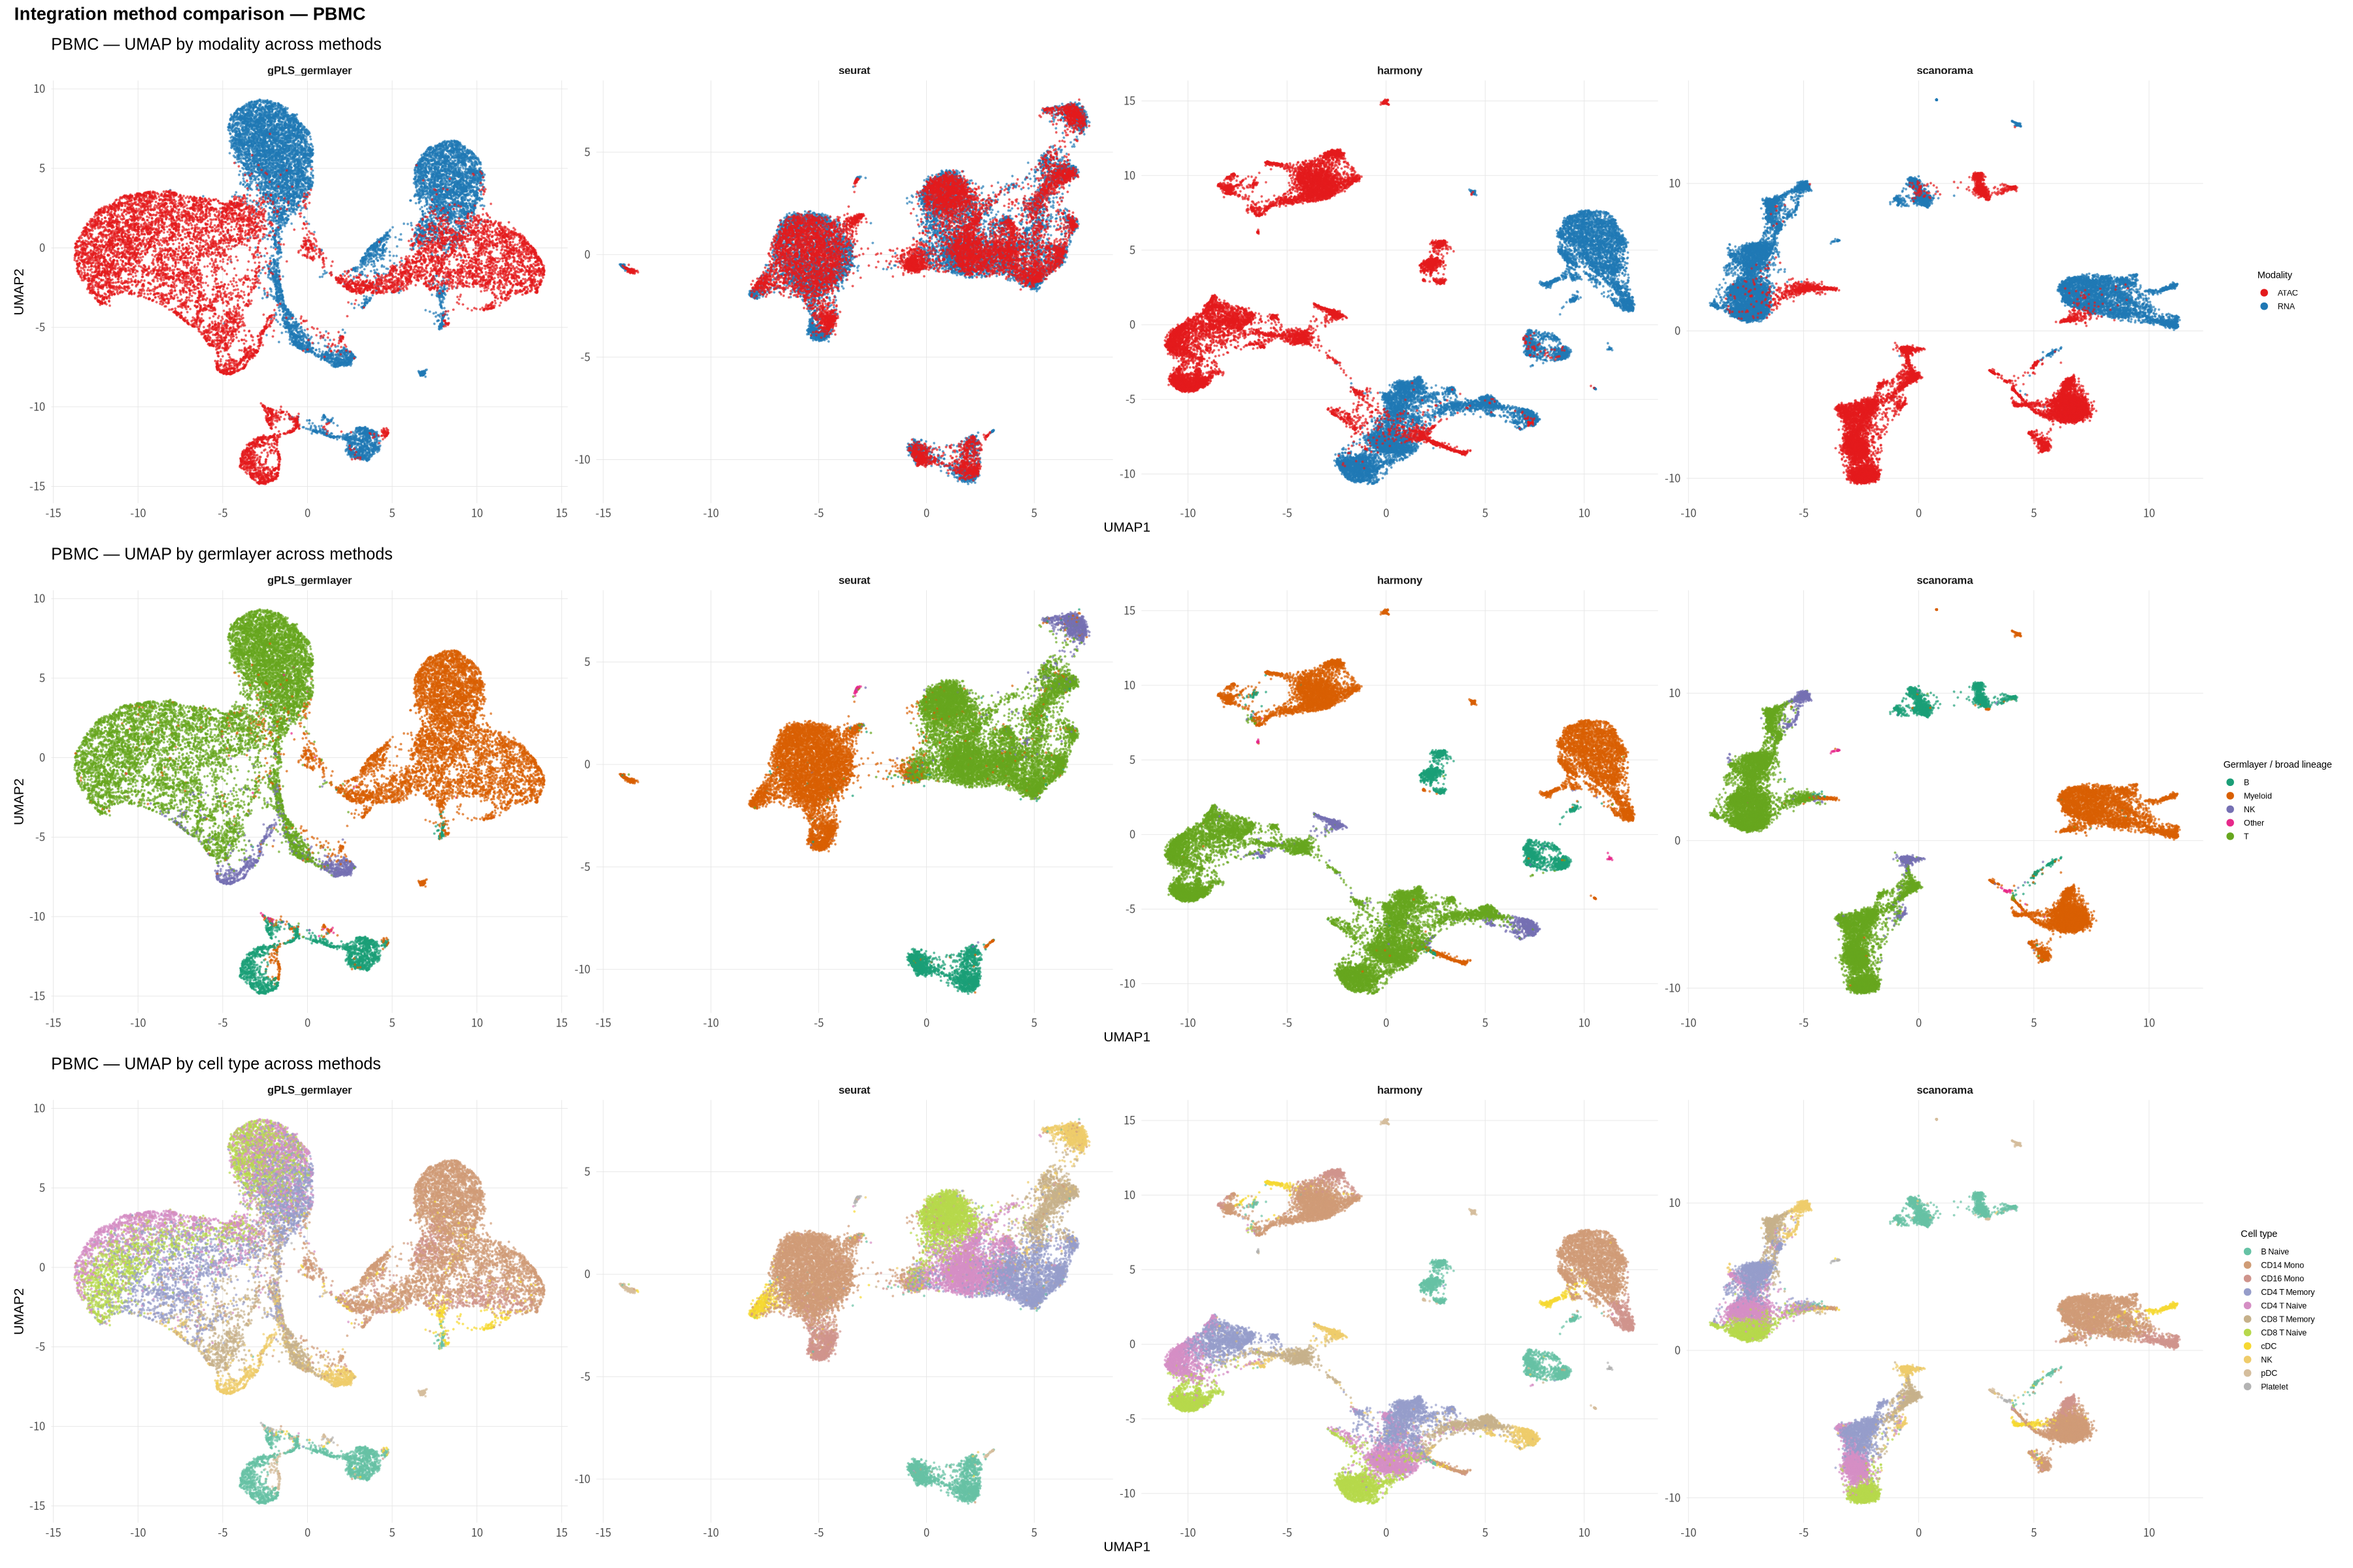
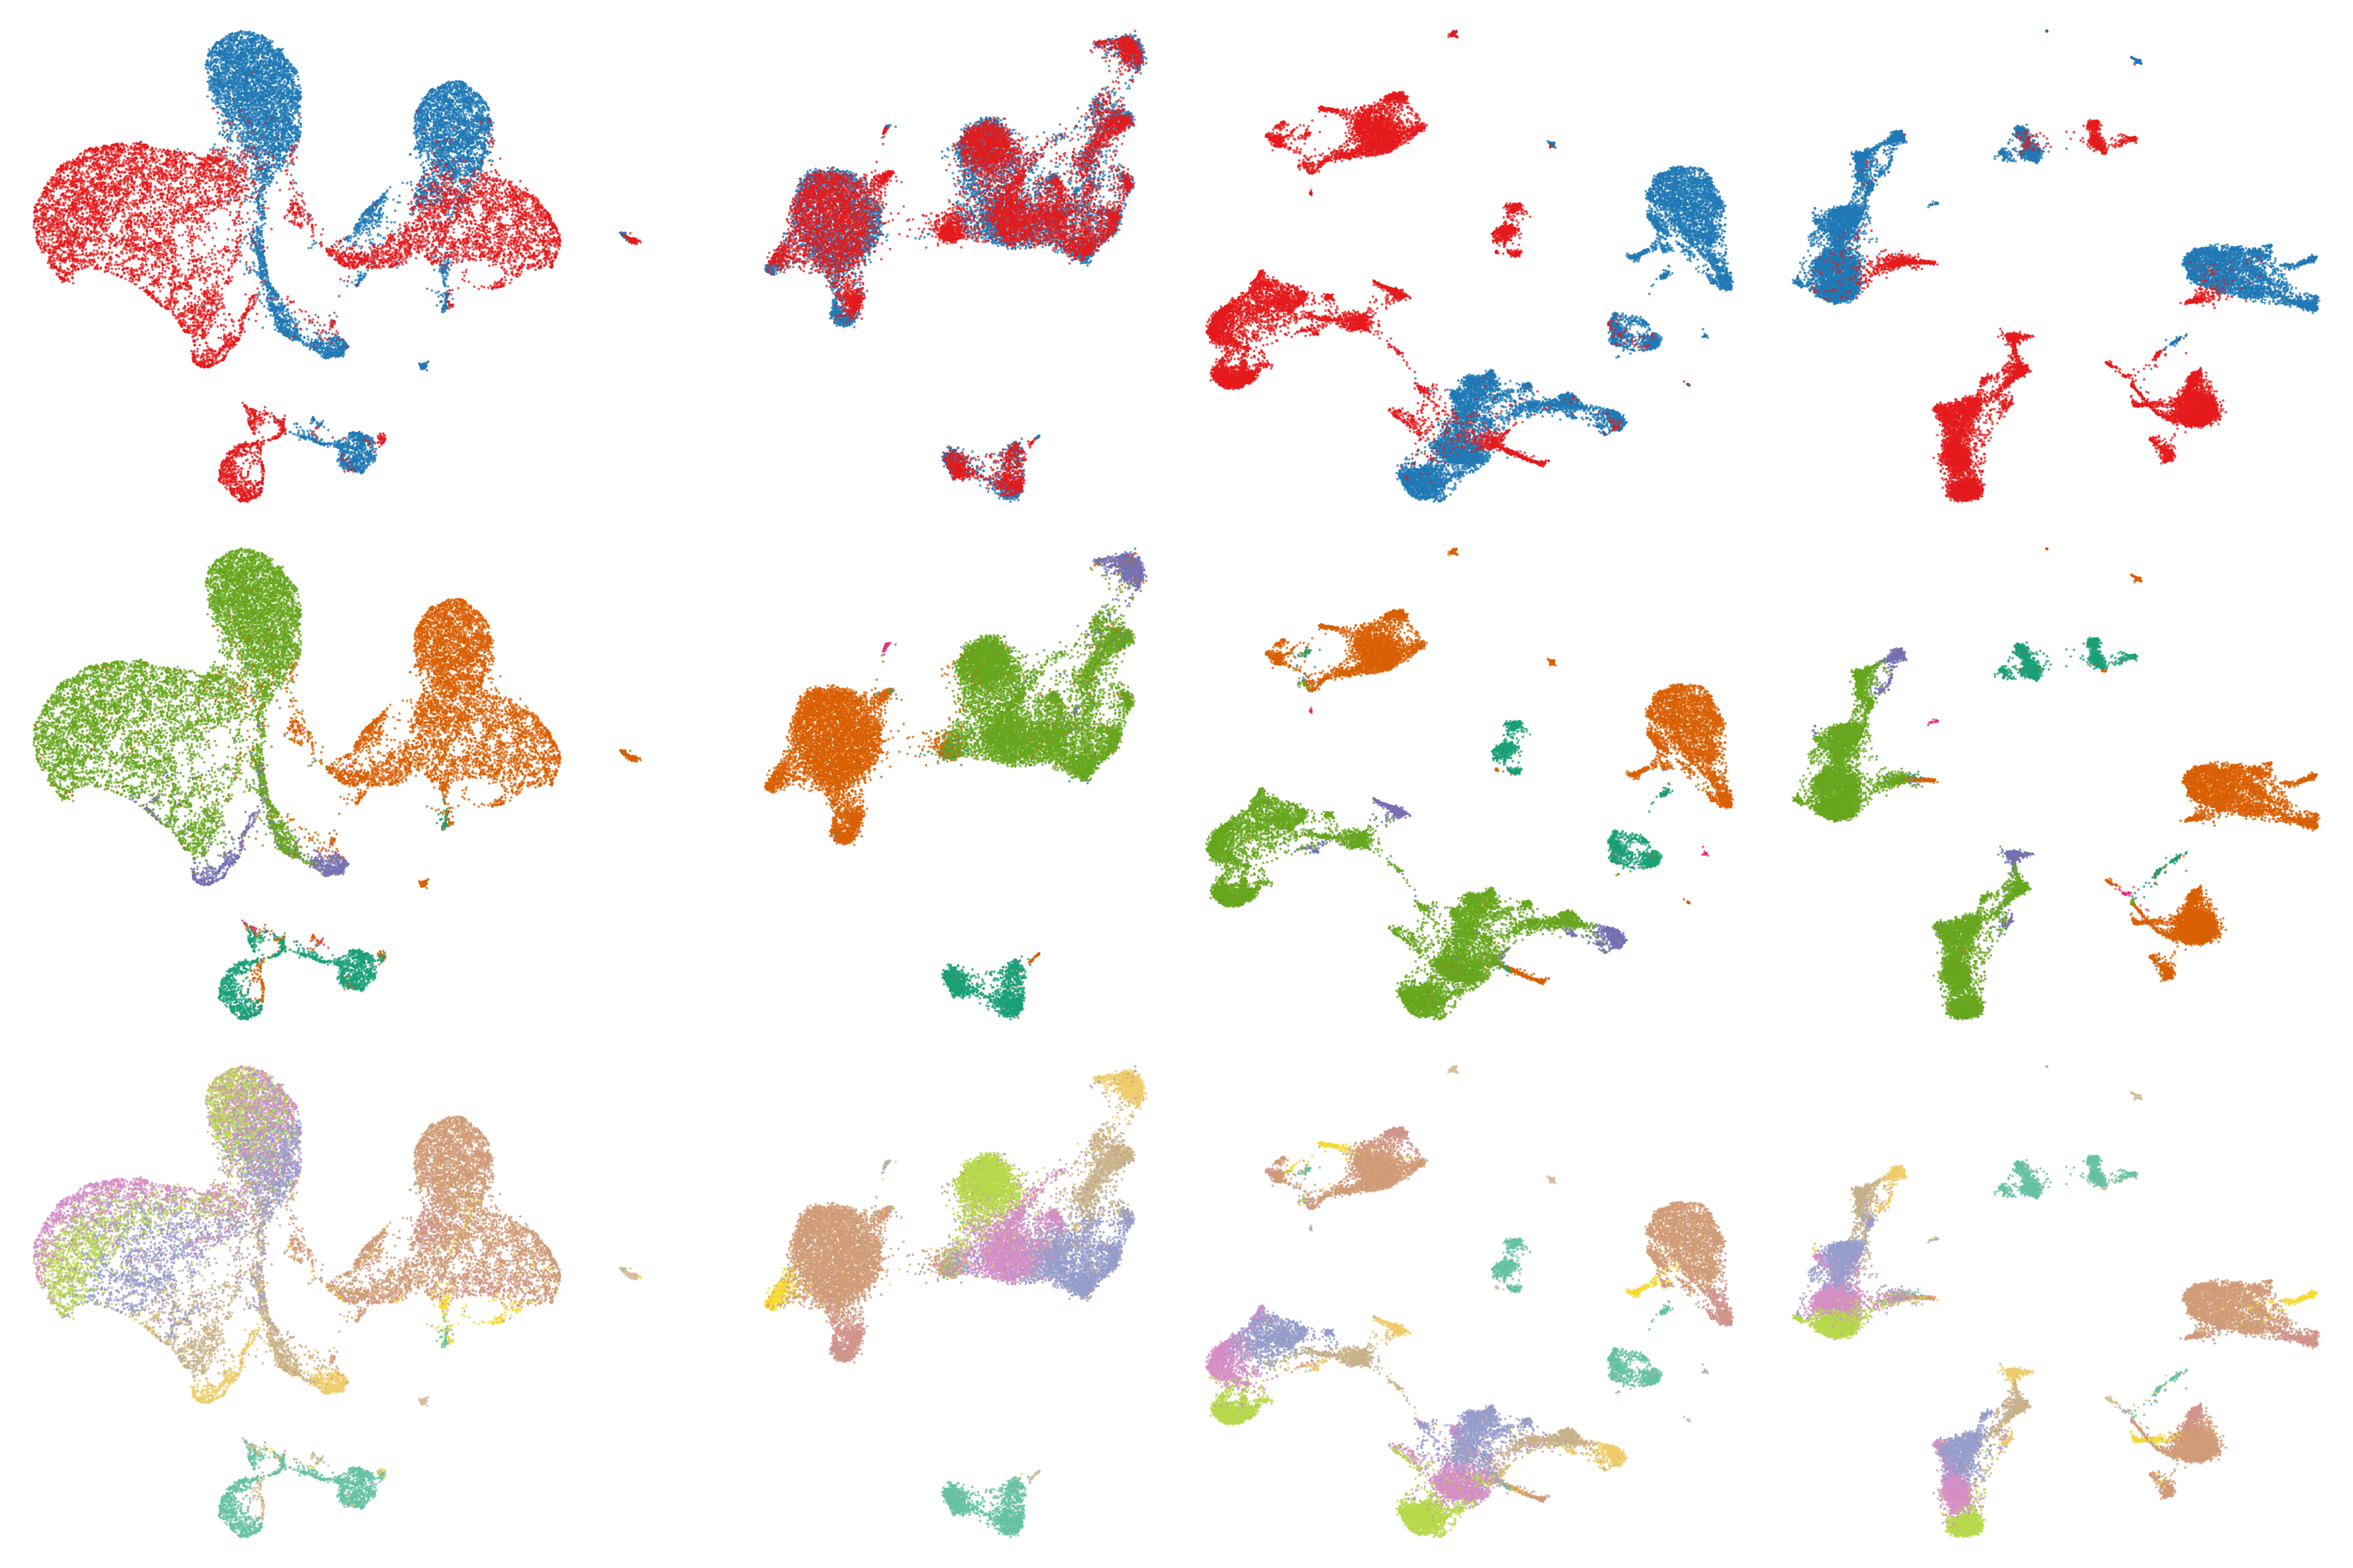
Strip axes/titles from Fig 3 panels; split into per-panel transparent PNGs
- Fig 3A: drop axis lines / numbers / titles / facet strip labels from the
  per-method UMAP combined panel (data points only on transparent bg).
  Three rows of the same UMAP: modality (top), germlayer / broad lineage
  (middle), cell type (bottom). All rows use a transparent background so
  the figure can be composited freely.
- Replace the single accuracy + balanced barplot (Fig 3B) and the combined
  time / memory panel (Fig 3C) with three separate transparent-background
  PNGs — Fig3B_pbmc_method_{accuracy,time,memory}.png — drawn with the
  Dark2 palette and no x-axis labels / title. Balanced accuracy is dropped
  from main.
- Export the method-colour key as a standalone 2x2 grid PNG
  (Fig3_method_legend.png) so it can be placed once next to the bar plots
  instead of repeating per panel. Add similar standalone vertical legend
  PNGs for the three UMAP rows: Fig3_umap_legend_{modality,germlayer,
  celltype}.png. New scripts: src/plot_method_summary.R and
  src/plot_method_legend.R. New Snakemake rules: method_summary,
  method_legend.
- Single-condition gPLS rows in the legend now read just "gPLS" (the
  "(germlayer)" suffix was redundant for PBMC, kept for multi-condition
  datasets).
- .gitignore: also exclude macOS resource-fork files ("._*") alongside the
  existing .DS_Store entry.
- Refresh figure_index.md to reflect the new main-panel layout (A + B1/B2/B3
  data panels + 4 standalone legend files).

diff --git a/plot/Figures/figure_index.md b/plot/Figures/figure_index.md
@@ -12,13 +12,25 @@ Single-cell multi-omics experiments contributing to **Fig. 3** of the guided-PLS
 
 ## Main Figures (`plot/Figures/main/`)
 
+All main files are **transparent-background PNGs** with axes / frames / titles / x-axis labels stripped, designed to be composited in Illustrator / Inkscape. Bar plots use the **RColorBrewer Dark2** palette mapped consistently to methods. **No legend is embedded in any data panel** — color → category mappings are saved as separate standalone PNG files.
+
+### Data panels
 | File | Panel | What it shows | Source |
 |---|---|---|---|
-| `Fig3A_pbmc_method_umap.png` | A | PBMC per-method UMAP (combined panel: modality on top row, cell type on bottom). Shows that Seurat anchor-based integration spatially mixes the two modalities (top), while gPLS / Harmony / Scanorama keep them visually separated. Despite the modality separation, gPLS recovers celltype structure (bottom). | `output/PBMC/figures/umap_methods_combined.png` |
-| `Fig3B_pbmc_method_barplot.png` | B | PBMC bar plot of accuracy + balanced accuracy across all methods. gPLS in 2nd place behind Seurat, beats Harmony / Scanorama. | `output/PBMC/figures/barplot_accuracy.png` |
-| `Fig3C_pbmc_method_resources.png` | C | PBMC wall time + peak memory per method (Snakemake `benchmark:` measurement). Reveals the compute trade-off: gPLS processes raw ATAC peaks (~140K features) so it is the most expensive method on the current implementation. See takeaway item 3 for honest framing — accuracy advantage comes at compute cost; ATAC-sparse implementation would close most of the gap. | `output/PBMC/figures/method_resources.png` |
+| `Fig3A_pbmc_method_umap.png` | A | PBMC per-method UMAP, faceted by method, 3 rows: top = modality, middle = germlayer / broad lineage, bottom = cell type. Data points only on transparent background. Shows that Seurat spatially mixes RNA + ATAC (top); gPLS / Harmony / Scanorama leave them visually separated; gPLS still organizes cells by germlayer (middle) and recovers celltype structure (bottom). | `output/PBMC/figures/umap_methods_combined.png` |
+| `Fig3B_pbmc_method_accuracy.png` | B1 | PBMC kNN cell-type accuracy per method (Dark2, no x-axis labels, no title). | `output/PBMC/figures/method_accuracy.png` |
+| `Fig3B_pbmc_method_time.png` | B2 | PBMC wall time per method (Snakemake `benchmark:` measurement). | `output/PBMC/figures/method_time.png` |
+| `Fig3B_pbmc_method_memory.png` | B3 | PBMC peak memory (max_rss) per method. | `output/PBMC/figures/method_memory.png` |
 
-The per-class F1 heatmaps (originally drafted as panels C–D) have been moved to the supplementary; the main now leads with UMAP / accuracy / compute and lets the heatmaps support the celltype-level interpretation in supp.
+### Standalone legends (composite once into the assembled figure)
+| File | What it shows | Layout | Source |
+|---|---|---|---|
+| `Fig3_method_legend.png` | Method colour mapping (Dark2): gPLS / Seurat / Harmony / Scanorama | 2 × 2 grid | `output/PBMC/figures/method_legend.png` |
+| `Fig3_umap_legend_modality.png` | Fig 3A top-row colours: RNA vs ATAC | horizontal | `output/PBMC/figures/umap_legend_modality.png` |
+| `Fig3_umap_legend_germlayer.png` | Fig 3A middle-row colours: T / B / NK / Myeloid / Other | horizontal | `output/PBMC/figures/umap_legend_germlayer.png` |
+| `Fig3_umap_legend_celltype.png` | Fig 3A bottom-row colours: 11 PBMC cell types | horizontal (2 rows for fit) | `output/PBMC/figures/umap_legend_celltype.png` |
+
+Balanced accuracy and the per-class F1 heatmaps have been moved to the supplementary.
 
 ## Supplementary Figures and Tables (`plot/Figures/supplementary/`)
 
